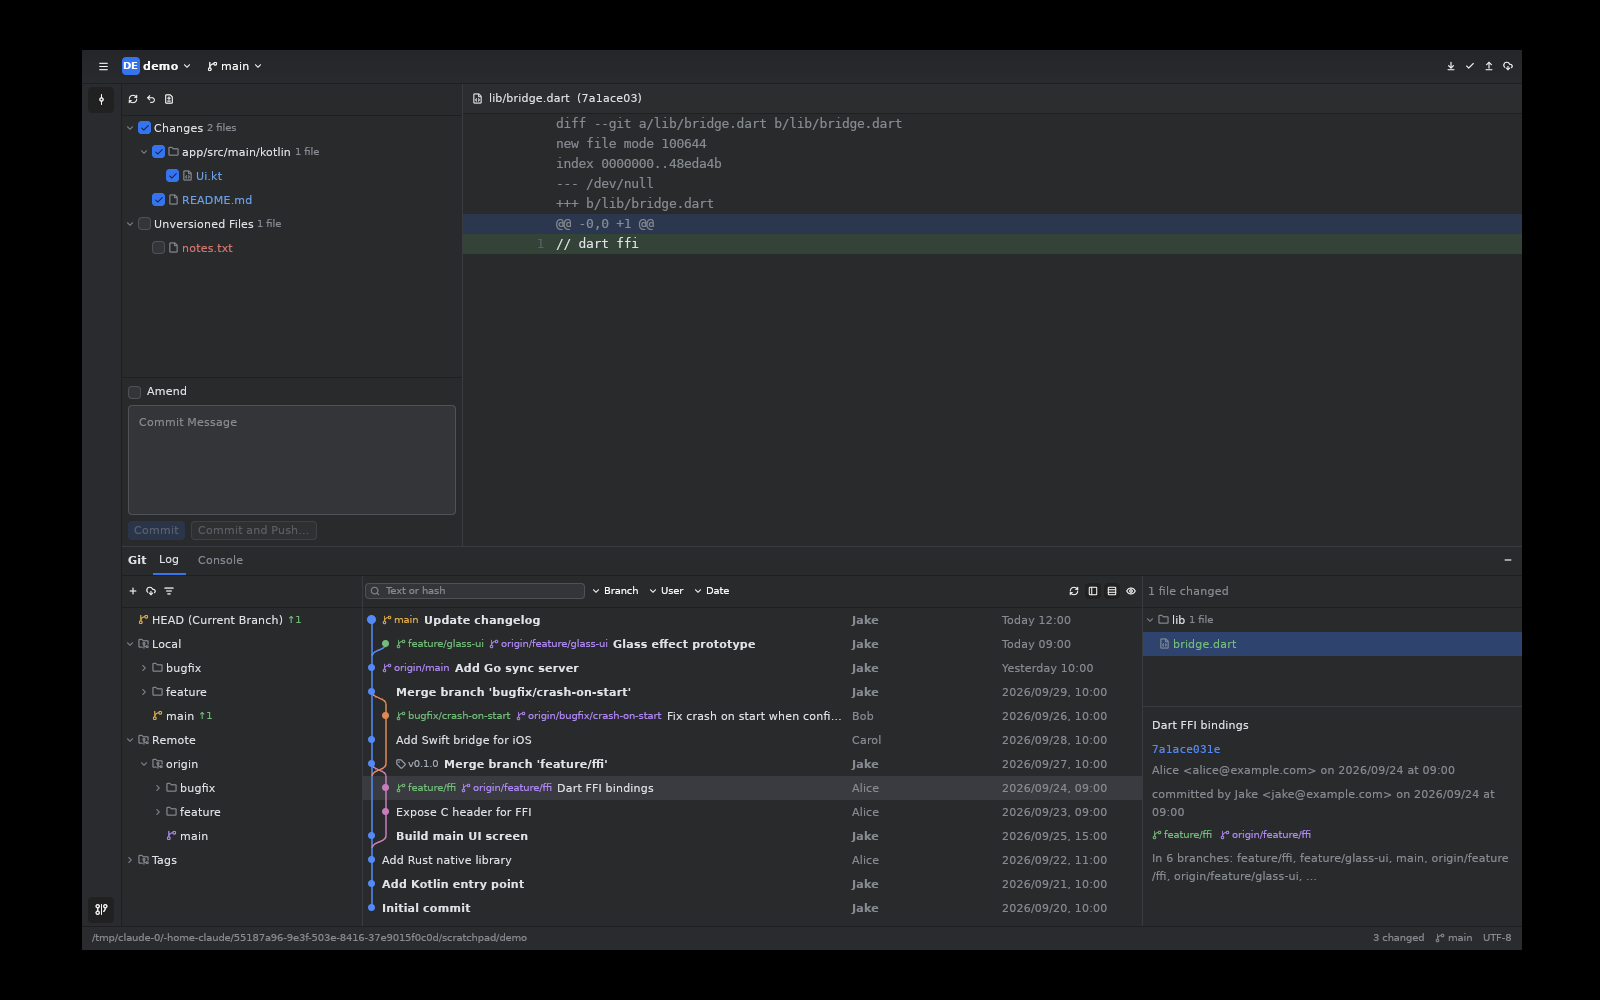
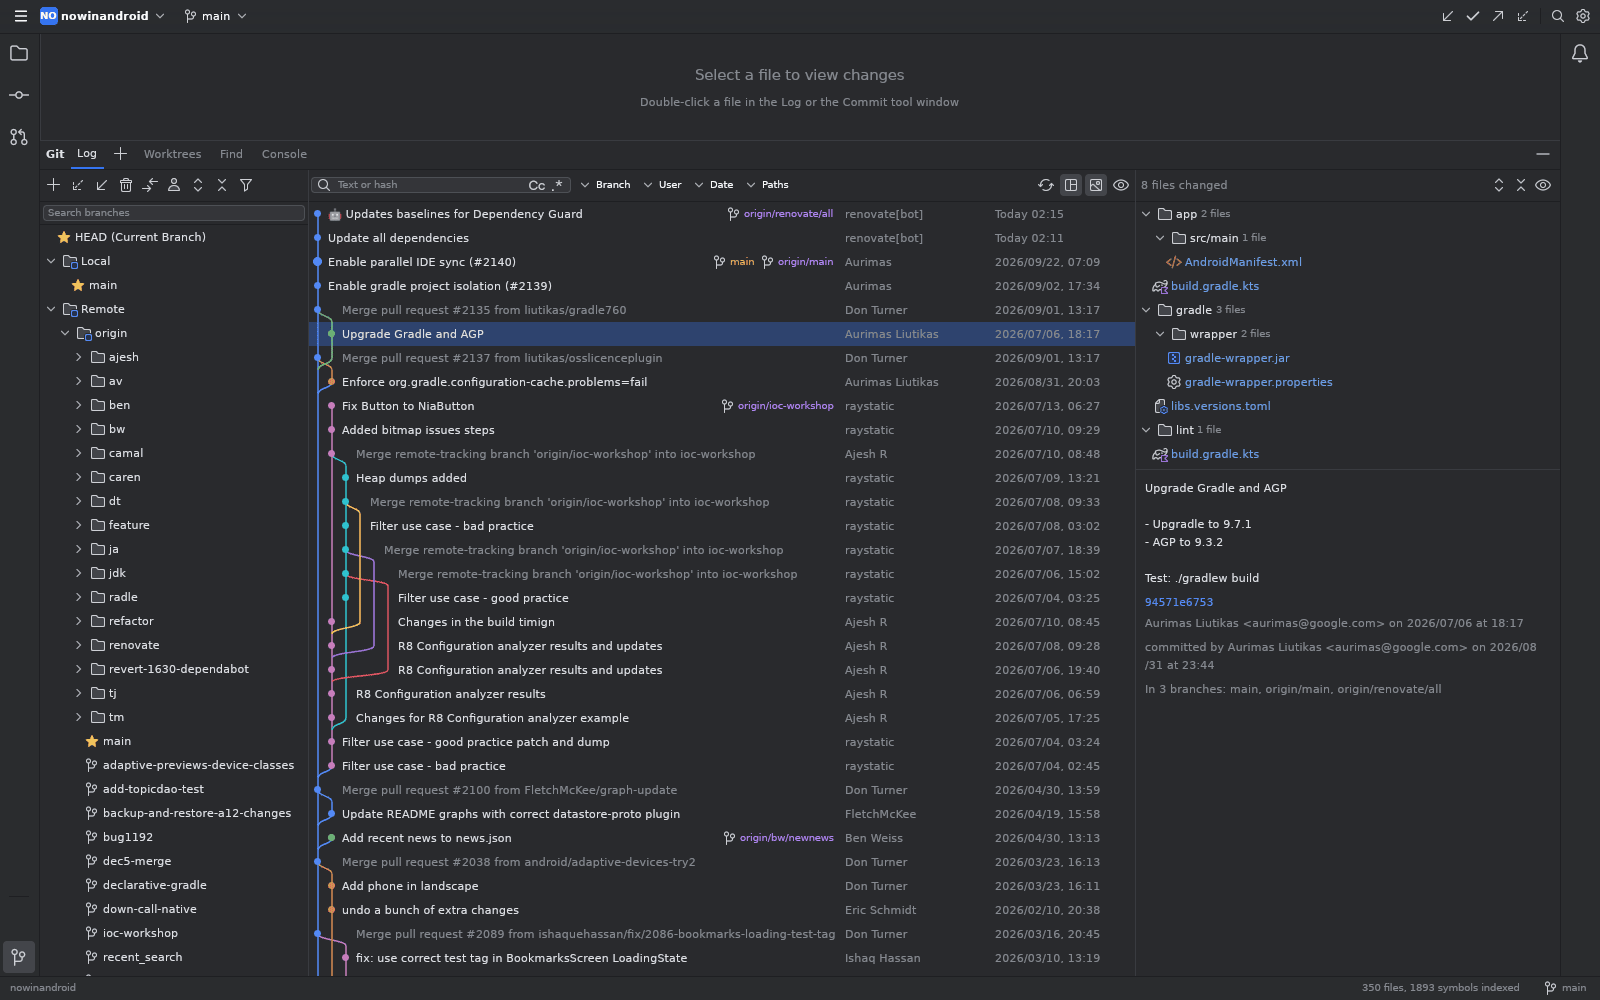
English README and new screenshots; long names no longer overflow the Rebase and Conflicts dialogs
README.en.md is the English version of the README, with a language switch at
the top of both. The feature summary follows docs/FEATURES.md, and the old
demo-repo screenshots are replaced by 16 shots of the current build on Now in
Android (Log, Commit and diff, branches popup, interactive rebase, conflicts and
merge, blame, editor, usages, External Libraries, search) in dark and light.

The Rebasing Commits dialog cut long author names with an ellipsis instead of
wrapping them over the next row, and the Conflicts dialog ellipsizes long paths
so the Accept Yours / Accept Theirs / Merge buttons stay visible.

diff --git a/src/ui/dialogs/merge_rebase.rs b/src/ui/dialogs/merge_rebase.rs
@@ -87,7 +87,7 @@ pub fn conflicts(model: Entity<RepoModel>, open_merge: OpenMerge, window: &mut W
                         }
                         window.refresh();
                     })
-                    .child(div().flex_1().text_color(palette.status_conflict).child(conflict.path.clone()))
+                    .child(div().flex_1().min_w_0().overflow_hidden().whitespace_nowrap().text_ellipsis().text_color(palette.status_conflict).child(conflict.path.clone()))
                     .child(div().w(px(90.)).text_color(palette.text_secondary).child(yours))
                     .child(div().w(px(90.)).text_color(palette.text_secondary).child(theirs)),
             );
@@ -113,7 +113,7 @@ pub fn conflicts(model: Entity<RepoModel>, open_merge: OpenMerge, window: &mut W
         let merge_target = chosen.clone();
         dialog
             .title("Conflicts")
-            .w(px(620.))
+            .w(px(760.))
             .child(
                 v_flex()
                     .gap_2()
@@ -122,7 +122,7 @@ pub fn conflicts(model: Entity<RepoModel>, open_merge: OpenMerge, window: &mut W
                         h_flex()
                             .gap_3()
                             .items_start()
-                            .child(div().flex_1().child(list))
+                            .child(div().flex_1().min_w_0().child(list))
                             .child(
                                 v_flex()
                                     .w(px(130.))

diff --git a/src/ui/rebase_dialog.rs b/src/ui/rebase_dialog.rs
@@ -400,7 +400,7 @@ impl Render for RebaseEditor {
                                     .to_owned(),
                             ),
                     )
-                    .child(div().w(px(90.)).text_color(palette.text_secondary).child(entry.commit.author_name.to_string())),
+                    .child(div().w(px(120.)).flex_none().overflow_hidden().whitespace_nowrap().text_ellipsis().text_color(palette.text_secondary).child(entry.commit.author_name.to_string())),
             );
         }
         let current = self.entries.get(selected).map(|e| e.action);

diff --git a/README.en.md b/README.en.md
@@ -1,0 +1,155 @@
+# Junction Studio
+
+English | [简体中文](README.md)
+
+Junction Studio — Git & Code Navigator: a desktop client that recreates Android Studio / IntelliJ's Git features one to one, together with cross-language code indexing and navigation (Kotlin, Java, C/C++, Objective-C, Rust, Swift, Dart, Go, V and more, including JNI, Dart FFI, Rust `extern "C"` and Swift/ObjC bridges).
+Built with Rust + [GPUI](https://www.gpui.rs) + [GPUI Kit / gpui-component](https://github.com/longbridge/gpui-kit).
+Like IntelliJ's git4idea, all Git operations run the `git` command line.
+
+![Commit tool window, diff and Git Log](docs/screenshots/overview-dark.png)
+
+## Download
+
+Every push to master builds all three platforms with GitHub Actions and publishes them under [Releases › latest](https://github.com/wizardmly/junction/releases/tag/latest) (the link never changes):
+
+| Platform | File | How to use |
+|---|---|---|
+| Windows x64 | `junction-windows-x64.zip` | Unzip and run `Junction Studio/junction.exe` |
+| macOS (universal: Apple silicon and Intel) | `junction-macos-universal.dmg` / `junction-macos-universal.app.zip` | Drag Junction Studio into Applications |
+| Linux x64 | `Junction-x86_64.AppImage` / `junction-linux-x64.tar.gz` | `chmod +x` and run the AppImage, or unpack the tar.gz |
+
+Checksums are in `SHA256SUMS.txt`.
+
+The macOS build is not notarized, so the first launch says Apple cannot verify that "Junction Studio.app" is free of malware. Click "Open Anyway" in System Settings › Privacy & Security, or run:
+
+```sh
+xattr -dr com.apple.quarantine "/Applications/Junction Studio.app"
+```
+
+You can also build it on your own Mac as described below; a locally built app does not show this warning.
+
+## Features
+
+The full checklist with status is in [docs/FEATURES.md](docs/FEATURES.md) (Chinese).
+
+- **Git tool window › Log**: branch tree (favorites, `/` folders, speed search), colored commit graph with long edges collapsed into arrows, Branch / User / Date / Paths filters, commit details and changed-file tree, GPG/SSH signature status, and the full commit context menu (Cherry-Pick, Reset, Revert, Reword, Fixup, Squash, Drop, Interactively Rebase from Here, Push All up to Here…).
+- **Commit tool window**: non-modal commit, changelists or staging area, partial commits by chunk or by line, Amend, commit message spell check and history, Shelf and Stash.
+- **Diff and Merge**: side-by-side and unified diff with an editable right side and per-chunk `>>` revert; three-way merge tool (magic wand for simple conflicts, accept per chunk); Conflicts dialog; image diff.
+- **Branches and remotes**: branches popup in the title bar (Recent / Local / Remote / Tags with every branch action), Fetch / Pull / Push / Update Project dialogs, interactive rebase, Merge / Rebase dialogs, tags, patches, worktrees, submodules and multiple repository roots.
+- **Per-file**: Annotate with Git Blame, file history, history for selection, change markers in the editor gutter (rollback or stage one chunk).
+- **GitHub / GitLab**: token login, Pull Requests tool window (comments, reviews, merge), Share Project, Create Gist, account repositories in Clone.
+- **Code index and navigation**: built-in tree-sitter index plus per-language LSP servers; Go to Declaration (Ctrl+B / Ctrl+click), Find Usages, implement / override gutter icons; External Libraries (sources of Gradle, Cargo, Go, Dart/Flutter and C/C++ dependencies and SDKs).
+- **Search**: Search Everywhere (double Shift), Find / Replace in Files, Find Action, Recent Files, File Structure, Go to Line.
+- **Editor and look**: tabs and split editors, syntax highlighting in Android Studio's colors, IntelliJ new UI icons, light and dark themes, IntelliJ and macOS keymaps.
+
+## Screenshots
+
+The screenshots show the open-source [Now in Android](https://github.com/android/nowinandroid) project opened in Junction Studio, and Junction's own sources for External Libraries.
+
+### Git Log
+
+![Git Log, dark](docs/screenshots/log-dark.png)
+
+![Git Log, light](docs/screenshots/log-light.png)
+
+Commit context menu:
+
+![Commit context menu](docs/screenshots/log-menu-dark.png)
+
+### Commit tool window and diff
+
+![Commit and diff, light](docs/screenshots/overview-light.png)
+
+Side-by-side diff (editable right side, checkboxes pick the chunks to commit):
+
+![Side-by-side diff](docs/screenshots/diff-dark.png)
+
+### Branches popup
+
+![Branches popup](docs/screenshots/branches-dark.png)
+
+### Interactive rebase
+
+![Interactive rebase](docs/screenshots/rebase-light.png)
+
+### Conflicts and three-way merge
+
+![Conflicts dialog](docs/screenshots/conflicts-dark.png)
+
+![Three-way merge tool](docs/screenshots/merge-dark.png)
+
+### Annotate with Git Blame
+
+![Git Blame](docs/screenshots/blame-dark.png)
+
+### Editor, navigation and usages
+
+Kotlin editor with Android Studio colors and implement / override gutter icons:
+
+![Editor](docs/screenshots/editor-dark.png)
+
+Ctrl+B / Ctrl+click on a declaration lists its usages:
+
+![Usages popup](docs/screenshots/usages-dark.png)
+
+### External Libraries
+
+Dependency and Rust standard library sources are indexed and open read-only when you navigate into them:
+
+![External Libraries](docs/screenshots/external-libraries-light.png)
+
+### Search
+
+![Search Everywhere](docs/screenshots/search-everywhere-dark.png)
+
+![Find in Files](docs/screenshots/find-in-files-dark.png)
+
+## Building Junction Studio.app on macOS
+
+1. Install **Xcode** from the App Store, open it once and accept the license. The build needs Xcode's Metal shader compiler; the Command Line Tools alone are not enough.
+2. Install Rust:
+
+   ```sh
+   curl --proto '=https' --tlsv1.2 -sSf https://sh.rustup.rs | sh
+   ```
+
+3. Get the code, then build and install it into Applications:
+
+   ```sh
+   git clone https://github.com/wizardmly/junction.git
+   cd junction
+   packaging/build-macos-app.sh --install
+   ```
+
+   Without `--install` it only produces `target/Junction Studio.app`. The first build takes 10 to 15 minutes; later ones are much faster.
+
+To update later, run `git pull` in the `junction` folder and then `packaging/build-macos-app.sh --install` again.
+
+## Running from source
+
+Requires Rust 1.90+ and `git`.
+
+```sh
+cargo run --release -- /path/to/repo     # opens the current directory when no path is given
+JUNCTION_THEME=light cargo run           # light theme
+```
+
+- **Windows**: needs Visual Studio Build Tools (MSVC). On Windows 11 the window uses the Mica backdrop.
+- **macOS**: needs Xcode (see above).
+- **Linux**: install the dependencies first: `sudo apt install libxkbcommon-x11-dev libwayland-dev libx11-xcb-dev libvulkan1 libfontconfig-dev libssl-dev`.
+
+Navigation and External Libraries use the language servers and SDKs installed on your machine (rust-analyzer, clangd, kotlin-lsp, gopls, the Dart SDK and so on) and fall back to the built-in index when they are missing.
+
+## Layout
+
+```
+src/git/        git backend: command runner and Console log, log parsing, graph layout, refs, status/commit, merge, rebase
+src/hosting/    GitHub / GitLab APIs
+src/index/      code index: tree-sitter symbols, cross-language bridges, LSP, External Libraries, navigation and usages
+src/model.rs    repository state (background loading, selected commit, operations + notifications)
+src/ui/         UI: workspace (main window), log_view, commit_view, diff_view, merge_view, dialogs, search, editor
+src/theme.rs    IntelliJ Int UI light / dark palettes
+vendor/         patched gpui-component and other dependencies (changes marked "Junction:")
+```
+
+`cargo test` runs the unit tests for the parsers, graph layout, index, file trees and more.

diff --git a/README.md b/README.md
@@ -1,10 +1,12 @@
 # Junction Studio
 
-Junction Studio — Git & Code Navigator：桌面客户端，一比一复刻 Android Studio / IntelliJ 的 Git 功能，以及跨语言的代码索引和跳转（JNI、Dart FFI、Rust extern C、Swift/ObjC 桥接）。
+[English](README.en.md) | 简体中文
+
+Junction Studio — Git & Code Navigator：桌面客户端，一比一复刻 Android Studio / IntelliJ 的 Git 功能，以及跨语言的代码索引和跳转（Kotlin、Java、C/C++、Objective-C、Rust、Swift、Dart、Go、V 等，含 JNI、Dart FFI、Rust extern C、Swift/ObjC 桥接）。
 技术栈：Rust + [GPUI](https://www.gpui.rs) + [GPUI Kit / gpui-component](https://github.com/longbridge/gpui-kit)。
 Git 操作和 IntelliJ 的 git4idea 一样，直接调用 `git` 命令行。
 
-![Log](docs/screenshots/log-dark.png)
+![Commit 工具窗口、Diff 和 Git Log](docs/screenshots/overview-dark.png)
 
 ## 下载
 
@@ -25,6 +27,82 @@ xattr -dr com.apple.quarantine "/Applications/Junction Studio.app"
 ```
 
 也可以按下面的步骤在自己的 Mac 上编译，本机编译的应用不会出现这个提示。
+
+## 功能
+
+完整对照表和进度见 [docs/FEATURES.md](docs/FEATURES.md)。
+
+- **Git 工具窗口 › Log**：分支树（收藏、按 `/` 分组、搜索）、彩色提交图（长边折叠为箭头）、Branch / User / Date / Paths 过滤、提交详情与变更树、GPG/SSH 签名信息、完整的提交右键菜单（Cherry-Pick、Reset、Revert、Reword、Fixup、Squash、Drop、Interactively Rebase from Here、Push All up to Here…）。
+- **Commit 工具窗口**：非模态提交、Changelist 或暂存区模式、按 chunk / 按行部分提交、Amend、提交信息拼写检查和历史、Shelf 与 Stash。
+- **Diff 与 Merge**：双栏 / 单栏 Diff，右侧可直接编辑，`>>` 回滚单块；三方合并工具（魔棒合并简单冲突、逐块接受）；冲突对话框；图片对比。
+- **分支与远程**：标题栏分支弹窗（Recent / Local / Remote / Tags，全部分支动作）、Fetch / Pull / Push / Update Project 对话框、交互式 Rebase、Merge / Rebase 对话框、Tag、补丁、Worktree、Submodule、多仓库根。
+- **文件级**：Annotate with Git Blame、文件历史、选中内容历史、编辑器 gutter 变更标记（Rollback / Stage 单块）。
+- **GitHub / GitLab**：Token 登录、Pull Requests 工具窗口（评论、审查、合并）、Share Project、Create Gist、Clone 时列出账号仓库。
+- **代码索引与跳转**：tree-sitter 内置索引 + 各语言 LSP；Go to Declaration（Ctrl+B / Ctrl+点击）、Find Usages、实现 / 覆盖 gutter 图标；External Libraries（Gradle、Cargo、Go、Dart/Flutter、C/C++ 等依赖和 SDK 源码）。
+- **搜索**：Search Everywhere（双击 Shift）、Find / Replace in Files、Find Action、Recent Files、File Structure、Go to Line。
+- **编辑器与外观**：标签页与分屏、AS 配色的语法高亮、IntelliJ 新 UI 图标、亮 / 暗主题、IntelliJ 与 macOS 快捷键。
+
+## 截图
+
+截图来自用 Junction Studio 打开的开源项目 [Now in Android](https://github.com/android/nowinandroid)，以及 Junction 自己的源码（External Libraries）。
+
+### Git Log
+
+![Git Log 暗色](docs/screenshots/log-dark.png)
+
+![Git Log 亮色](docs/screenshots/log-light.png)
+
+提交右键菜单：
+
+![提交右键菜单](docs/screenshots/log-menu-dark.png)
+
+### Commit 工具窗口与 Diff
+
+![Commit 与 Diff 亮色](docs/screenshots/overview-light.png)
+
+双栏 Diff（右侧可编辑，复选框选择要提交的块）：
+
+![双栏 Diff](docs/screenshots/diff-dark.png)
+
+### 分支弹窗
+
+![分支弹窗](docs/screenshots/branches-dark.png)
+
+### 交互式 Rebase
+
+![交互式 Rebase](docs/screenshots/rebase-light.png)
+
+### 冲突与三方合并
+
+![冲突对话框](docs/screenshots/conflicts-dark.png)
+
+![三方合并工具](docs/screenshots/merge-dark.png)
+
+### Annotate with Git Blame
+
+![Git Blame](docs/screenshots/blame-dark.png)
+
+### 编辑器、跳转与用法
+
+带 AS 配色和实现 / 覆盖 gutter 图标的 Kotlin 编辑器：
+
+![编辑器](docs/screenshots/editor-dark.png)
+
+在声明上按 Ctrl+B / Ctrl+点击，列出用法：
+
+![用法弹窗](docs/screenshots/usages-dark.png)
+
+### External Libraries
+
+依赖库和 Rust 标准库源码进入索引，跳转后只读打开：
+
+![External Libraries](docs/screenshots/external-libraries-light.png)
+
+### 搜索
+
+![Search Everywhere](docs/screenshots/search-everywhere-dark.png)
+
+![Find in Files](docs/screenshots/find-in-files-dark.png)
 
 ## 在 macOS 上编译 Junction Studio.app
 
@@ -60,17 +138,18 @@ JUNCTION_THEME=light cargo run           # 亮色主题
 - **macOS**：需要 Xcode（见上文）。
 - **Linux**：先安装依赖：`sudo apt install libxkbcommon-x11-dev libwayland-dev libx11-xcb-dev libvulkan1 libfontconfig-dev libssl-dev`。
 
-## 功能清单
-
-完整对照表和进度见 [docs/FEATURES.md](docs/FEATURES.md)（M1–M6 阶段）。
+跳转和 External Libraries 会使用本机已安装的语言服务器与 SDK（如 rust-analyzer、clangd、kotlin-lsp、gopls、Dart SDK），没有时退回内置索引。
 
 ## 结构
 
 ```
-src/git/        git 后端：命令执行与 Console 记录、log 解析、提交图布局、refs、status/commit
+src/git/        git 后端：命令执行与 Console 记录、log 解析、提交图布局、refs、status/commit、merge、rebase
+src/hosting/    GitHub / GitLab API
+src/index/      代码索引：tree-sitter 符号、跨语言桥接、LSP、External Libraries、跳转与用法
 src/model.rs    仓库状态（后台加载、选中提交、操作 + 通知）
-src/ui/         界面：workspace（主窗口）、log_view、commit_view、branches_popup、diff_view、dialogs
-src/theme.rs    IntelliJ Int UI 亮/暗配色，半透明面板
+src/ui/         界面：workspace（主窗口）、log_view、commit_view、diff_view、merge_view、对话框、搜索、编辑器
+src/theme.rs    IntelliJ Int UI 亮 / 暗配色
+vendor/         打过补丁的 gpui-component 等依赖（改动处标有 "Junction:"）
 ```
 
-`cargo test` 运行解析器、提交图布局和文件树的单元测试。
+`cargo test` 运行解析器、提交图布局、索引和文件树等单元测试。
